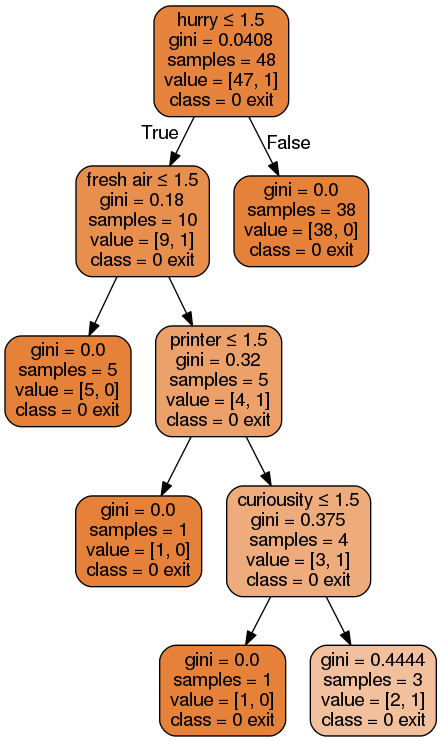
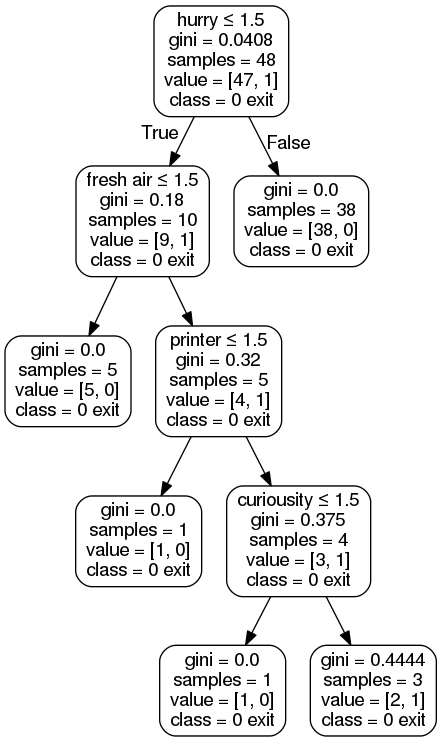
change style

diff --git a/server/server.py b/server/server.py
@@ -81,7 +81,7 @@ def drawDecisionTree(dt, filename, featureNames, classNames):
     dot_data = StringIO()
     print featureNames
     print classNames
-    tree.export_graphviz(dt, out_file=dot_data, feature_names=featureNames, class_names=classNames, filled=True, rounded=True, special_characters=True)
+    tree.export_graphviz(dt, out_file=dot_data, feature_names=featureNames, class_names=classNames, rounded=True, special_characters=True)
     graph = pydot.graph_from_dot_data(dot_data.getvalue())
     graph.write_png(filename) 
 
